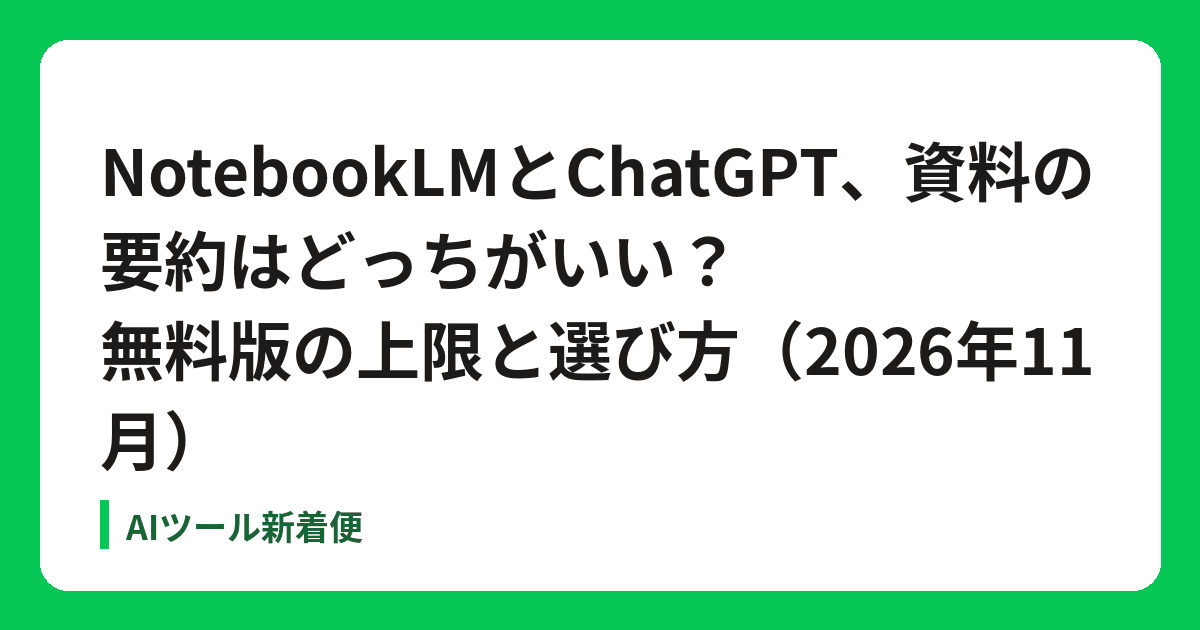
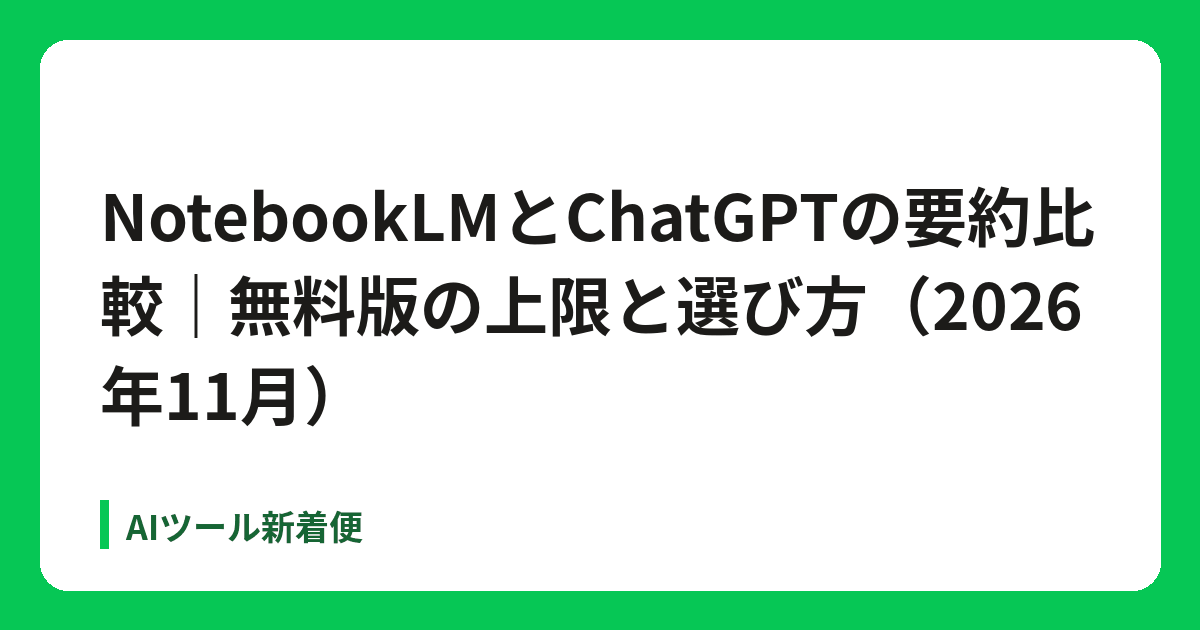
新記事: ClaudeとChatGPTの違い（無料版・有料プラン）／動画生成AI比較・AIホームページ比較を公式で再確認(2026-11-03)

Changed region(s): [[0.0617, 0.2111, 0.925, 0.754]]

diff --git a/data/articles.js b/data/articles.js
@@ -1,4 +1,5 @@
 module.exports = [
+{"slug":"claude-chatgpt-muryou-chigai","date":"2026-11-03","tools":["chatgpt"],"title":"ClaudeとChatGPTの違い｜無料版でできることと有料プラン","desc":"ClaudeとChatGPTどっちがいい？と迷う人向けに、無料版の上限の考え方、使えるモデルや機能、有料プランの違い、向いていない人と代わりの選択肢を公式料金ページの情報だけで比較しました。","body":"<h1>ClaudeとChatGPT、どっちがいい？無料版の違いと有料プラン</h1><p class=\"muted\">2026年11月3日にAnthropicとOpenAIの公式料金ページで確認した内容です。プランの中身や料金は変わることがあるため、申し込み前に最新の料金は公式ページでご確認ください。筆者の使用感ではなく、公式ページに書かれている内容だけをもとにしています。</p>\n<p>Q&amp;Aサイトでは「ClaudeとChatGPTはどっちを使えばいい？」「無料版だとどこまでできる？」「有料にするならどれ？」といった相談がよく見られます。この記事では、2つのAIチャットの<b>無料版でできること・上限の考え方・有料プランの違い</b>を、公式の料金ページの比較表をもとに整理します。</p>\n<h2>先に結論：選び方の目安</h2><ul><li><b>無料でたくさん文章のやりとりをしたい、画像も作りたい</b>なら、無料版でもテキストチャットが「無制限（乱用防止の制限あり）」で画像生成もできるChatGPTが候補です。</li><li><b>長い文章や資料を読ませたい、Artifacts（その場で作る小さなアプリや文書）やスライド・文書作成を使いたい</b>なら、無料版でもコンテキスト（一度に扱える量）がモデルにより最大100万トークンと書かれているClaudeが候補です。</li><li><b>プログラミングを任せたい</b>なら、Claude Codeは無料版では使えずProから（ChatGPTのCodexは無料版でも制限つきで使えます）。</li><li>どちらも無料で始められるので、同じ質問を両方に投げて比べるのが確実です。</li></ul>\n<h2>無料版の比較表（2026年11月3日 公式料金ページで確認）</h2><table><thead><tr><th>項目</th><th>Claude（Free）</th><th>ChatGPT（Free）</th></tr></thead><tbody>\n<tr><td>料金</td><td>$0</td><td>無料</td></tr>\n<tr><td>使える量</td><td>制限あり（5時間ごと・毎週の上限）。決まったメッセージ数はなく、モデル・会話の長さ・ファイルの大きさで変わる</td><td>GPT-6でのテキストチャットは無制限（乱用防止の制限あり）。アップロードを含むメッセージは制限あり</td></tr>\n<tr><td>一度に扱える量</td><td>コンテキストは最大100万トークン（モデルにより異なる）</td><td>GPT Instantはコンテキスト27K、入力は約12ページ分まで</td></tr>\n<tr><td>使えるモデル</td><td>Sonnet・Haiku（Opusは有料プランから）</td><td>GPT-6 Luna、GPT-5 Thinking Mini など（上位モデルはPlus以上）</td></tr>\n<tr><td>Web検索</td><td>あり</td><td>あり</td></tr>\n<tr><td>画像生成</td><td>料金ページの比較表に項目なし</td><td>制限あり</td></tr>\n<tr><td>音声での会話</td><td>あり（Voice mode）</td><td>制限あり</td></tr>\n<tr><td>ファイル作成・コード実行</td><td>あり</td><td>データ分析は制限あり</td></tr>\n<tr><td>プロジェクト</td><td>5件まで</td><td>あり</td></tr>\n<tr><td>リサーチ（調べもの機能）</td><td>なし（Proから）</td><td>ディープリサーチは制限あり</td></tr>\n<tr><td>プログラミング支援</td><td>Claude Codeはなし（Proから）</td><td>Codexは制限あり</td></tr>\n<tr><td>メモリ</td><td>あり（会話をまたいだメモリ）</td><td>制限あり</td></tr>\n<tr><td>予約タスク</td><td>なし（タスクの委託とスケジュール設定はProから）</td><td>なし（Plusから）</td></tr>\n<tr><td>学習への利用</td><td>オプトアウト（設定で外せる）</td><td>オプトアウトできる</td></tr>\n</tbody></table>\n<p class=\"muted\">表の「制限あり」は、公式ページに「Limited」とだけ書かれ、具体的な回数が示されていないものです。</p>\n<h2>Claudeの無料版でできること</h2><p>Anthropicの料金ページ（日本語版あり）では、Freeプランは「すべてのカスタマーに無料で提供」とされ、次の機能が並んでいます。</p><ul><li>Web・デスクトップ・モバイルでチャット</li><li>Web検索、ファイル作成、コード実行</li><li>会話をまたいだメモリ</li><li>アプリやツールとの連携（コネクタ）</li><li>Artifactsの作成</li><li>Claude Design、Slides、Docs</li></ul><p>上限は「5時間ごと・毎週」で決まります。公式FAQでは、多くのアカウントで上限は5時間ごとの枠でリセットされ、使える量は会話の長さや複雑さ、選んだモデル、使う機能によって変わるため<b>決まったメッセージ数はない</b>と説明されています。上限に達したら、リセットを待つか上位プランに変えます。</p>\n<h2>ChatGPTの無料版でできること</h2><p>OpenAIの料金ページでは、無料版（Free）は「ChatGPTを試すのに最適」とされ、次の内容が書かれています。</p><ul><li>GPT-6でのテキストチャットが無制限（乱用防止の制限あり）</li><li>アップロードを含むメッセージ、画像生成、音声での会話、ディープリサーチ、メモリ・コンテキストは制限あり</li><li>Codex、デスクトップアプリのChatGPT Workは制限つきで利用可</li><li>検索、プロジェクト、学習モード（Study mode）は利用可</li></ul><p>ChatGPTの無料版の詳しい中身は<a href=\"https://ai-shinchaku.com/articles/chatgpt-muryou-dekirukoto/\">ChatGPT無料版でできることと上限</a>にもまとめています。</p>\n<h2>有料プランの違い</h2><table><thead><tr><th>プラン</th><th>料金（公式ページの表記）</th><th>主な違い</th></tr></thead><tbody>\n<tr><td>Claude Pro</td><td>月払い$20、年払いなら月$17（$200を一括請求）・税別</td><td>Freeより多い使用量（公式FAQでは5時間あたりFreeの5倍以上）。Claude Code、リサーチ、Opusなどのモデル、ChromeやMicrosoft 365でのClaude、タスクの委託とスケジュール設定</td></tr>\n<tr><td>Claude Max</td><td>月$100・税別</td><td>Proの5倍の使用量（5時間ごと・毎週）。高トラフィック時の優先アクセス、月$100分のAPIクレジット</td></tr>\n<tr><td>Claude Ultra</td><td>月$200・税別</td><td>Proの10倍の使用量（毎週）。認証済みアカウントは5時間制限なし。月$200分のAPIクレジット</td></tr>\n<tr><td>ChatGPT Go</td><td>最新の料金は公式ページでご確認ください</td><td>ツールを使うメッセージ・アップロード・画像生成・音声が増え、メモリが長くなる。広告が表示される場合あり</td></tr>\n<tr><td>ChatGPT Plus</td><td>最新の料金は公式ページでご確認ください</td><td>GPT-6の高度な推論モデル、メッセージ・アップロード・ディープリサーチの拡大、プロジェクト・予約タスク・カスタムGPT</td></tr>\n<tr><td>ChatGPT Pro</td><td>最新の料金は公式ページでご確認ください</td><td>3つの利用段階から選べる。GPT-6 AstraによるPro推論、画像生成は無制限（乱用防止の制限あり）、ディープリサーチ最大</td></tr>\n</tbody></table>\n<p class=\"muted\">ChatGPTの料金ページは、確認時に金額の部分を読み取れなかったため、金額は載せていません。ドル表記の料金は、為替や税によって日本円の支払額が変わります。</p>\n<h2>こんな人はClaude、こんな人はChatGPT</h2><ul><li><b>Claudeが向いている人</b>：長い文章や資料をまとめて読ませたい人、Artifactsでその場で文書や小さなツールを作りたい人、有料にしてClaude Codeでプログラミングを任せたい人。</li><li><b>ChatGPTが向いている人</b>：無料版で回数を気にせず文章のやりとりをしたい人、画像生成や音声での会話も1つのアプリで使いたい人、無料のうちからディープリサーチやCodexを少し試したい人。</li></ul>\n<h2>向いていない人と代わりの選択肢</h2><ul><li><b>Claudeの無料版が向いていない人</b>：1日に何十回も長いやりとりをしたい人は、5時間ごとの上限に届きやすくなります。無料で使えるAIチャットを増やしたいなら<a href=\"https://ai-shinchaku.com/articles/gemini-muryou-dekirukoto/\">Gemini無料版</a>も候補です。</li><li><b>ChatGPTの無料版が向いていない人</b>：長いPDFをそのまま読ませたい人は、無料版の入力上限（約12ページ分）に注意が必要です。手元の資料の中身だけをもとに要約・質問したいなら<a href=\"https://ai-shinchaku.com/articles/notebooklm-chatgpt-youyaku-hikaku/\">NotebookLMとChatGPTの要約比較</a>を参考にしてください。</li><li><b>どちらも合わない人</b>：Googleのサービスと一緒に使いたい、Officeと一緒に使いたいなど目的がはっきりしている場合は、<a href=\"https://ai-shinchaku.com/articles/chatgpt-igai-ai-hikaku/\">ChatGPT以外のAIチャット比較</a>で他の選択肢を見られます。</li></ul>\n<h2>無料版を使うときの注意点</h2><ul><li>どちらも、入力した内容をモデルの学習に使うかどうかを設定で外せます（公式の比較表ではClaudeは「オプトアウト」、ChatGPTは「オプトアウトできる」）。仕事の資料を入れる前に設定を確認しましょう。</li><li>AIの答えには誤りが含まれることがあります。数字・固有名詞・日付は元の資料や公式情報で確かめてから使いましょう。</li><li>無料版の上限や使えるモデルは、予告なく変わることがあります。</li></ul>\n<h2>関連記事</h2><p><a href=\"https://ai-shinchaku.com/articles/chatgpt-muryou-dekirukoto/\">ChatGPT無料版でできることと上限</a>／<a href=\"https://ai-shinchaku.com/articles/claude-haiku-5-5/\">Claude Haiku 5.5とは？</a>／<a href=\"https://ai-shinchaku.com/articles/claude-code-mcp-tasks/\">Claude Code MCP Tasksの使い方</a>／<a href=\"https://ai-shinchaku.com/articles/chatgpt-igai-ai-hikaku/\">ChatGPT以外のAIチャット比較</a>／<a href=\"https://ai-shinchaku.com/tools/chatgpt/\">ChatGPTのツールページ</a></p>\n<h2>出典（公式・2026年11月3日確認）</h2><pre><code>https://claude.com/ja/pricing\nhttps://claude.com/pricing\nhttps://chatgpt.com/pricing/</code></pre>"},
 {"slug":"notebooklm-chatgpt-youyaku-hikaku","date":"2026-11-03","tools":["notebooklm","chatgpt"],"title":"NotebookLMとChatGPTの要約比較｜無料版の上限と選び方（2026年11月）","desc":"PDFや資料の要約にNotebookLMとChatGPTのどちらを使うか迷う人向けに、無料版の資料の上限、得意な使い方、向いていない人を公式ページの情報だけで比較しました。","body":"<h1>NotebookLMとChatGPT、資料の要約はどっちがいい？</h1><p class=\"muted\">2026年11月3日にGoogleとOpenAIの公式ページで確認した内容です。プランの中身は変わることがあるため、最新の料金は公式ページでご確認ください。</p>\n<p>Yahoo!知恵袋などのQ&amp;Aサイトでは、「PDFや資料をAIに要約させたいが、NotebookLMとChatGPTのどちらを使えばいいかわからない」「無料版でどこまでできるのか」「要約に間違いがないか心配」といった相談がよく見られます。この記事では、そうした悩みに向けて、2つのツールの違いを公式の情報だけで整理します。筆者の使用感ではなく、公式ページに書かれている内容をもとにしています。</p>\n<h2>先に結論：選び方の目安</h2><ul><li><b>手元の資料（PDF・ドキュメントなど）の中身だけをもとに要約・質問したい</b>なら、資料を「ソース」として登録して使うNotebookLMが向いています。</li><li><b>要約のあとに文章作成・画像・音声など幅広い作業も続けたい</b>なら、汎用のAIチャットであるChatGPTが向いています。</li><li>どちらも無料で始められるので、同じ資料で両方を試して比べるのが確実です。</li></ul>\n<h2>NotebookLM（Gemini Notebook）の特徴</h2><p>Googleの公式ヘルプでは、NotebookLMは「Gemini Notebook」という名前で案内されています。資料をノートブックに「ソース」として追加し、その内容をもとにチャットや分析ができます。</p><ul><li>無料（Gmailアカウントで登録）のStandardでは、ノートブックは1ユーザー100件、ソースは1ノートブック50件までと公式ヘルプに書かれています（上限は変更される場合があります）。</li><li>Google AI Plusでは200件・100件、Proでは500件・300件と上限が増えます。</li><li>ソースを初めて追加したとき、レポート、フラッシュカード、インフォグラフィック、スライド資料、音声解説、動画解説が自動で作られる場合があります。</li><li>データは、フィードバックを送らない限りトレーニングに使われないと書かれています。</li></ul>\n<h2>ChatGPTの特徴</h2><p>ChatGPTは、OpenAIの汎用AIチャットです。公式の料金ページでは、無料版・Go・Plus・Proなどのプランが案内されています。</p><ul><li>無料版でもテキストチャットは無制限（不正利用防止の安全対策あり）ですが、<b>アップロードを含むメッセージ数には上限がある</b>と書かれています。資料を何度も読み込ませる使い方では、この上限に注意が必要です。</li><li>Goでは「より多くのアップロード」、Plusでは「メッセージ送信とアップロードの上限拡大」が案内されています。</li><li>Deep Research、画像作成、音声チャットなど、要約以外の機能もあります（無料版は上限あり）。</li></ul>\n<h2>比較表</h2><table><tr><th>項目</th><th>NotebookLM</th><th>ChatGPT</th></tr><tr><td>得意な使い方</td><td>登録した資料をもとにした要約・質問</td><td>要約を含む幅広い作業</td></tr><tr><td>無料版の資料の上限</td><td>ノートブック100件・1ノートブックあたりソース50件</td><td>アップロードを含むメッセージ数に上限あり（具体的な数は公式ページに記載なし）</td></tr><tr><td>有料プラン</td><td>Google AI Plus／Pro／Ultraなど</td><td>Go／Plus／Proなど</td></tr><tr><td>料金</td><td colspan=\"2\">最新の料金は公式ページでご確認ください</td></tr></table>\n<h2>向いていない人と代わりの選択肢</h2><ul><li><b>NotebookLMが向いていない人</b>：資料を用意せずに、自由に質問や文章作成をしたい人。この場合はChatGPTやGeminiなどの汎用AIチャットが合います。</li><li><b>ChatGPTが向いていない人</b>：無料版で大量の資料を何度もアップロードしたい人。アップロードに上限があるため、資料をまとめて登録できるNotebookLMを検討しましょう。</li></ul>\n<h2>要約を使うときの注意点</h2><ul><li>どちらのツールでも、AIの要約には間違いや抜けが入ることがあります。数字や固有名詞は元の資料で確かめましょう。</li><li>社外秘の資料を入れる前に、各サービスのデータの取り扱いと、勤務先のルールを確認しましょう。</li></ul>\n<h2>関連</h2><p><a href=\"../../tools/notebooklm/\">NotebookLMのツールページ</a>／<a href=\"../../tools/chatgpt/\">ChatGPTのツールページ</a>／<a href=\"../notebooklm-muryou-jougen/\">NotebookLM無料版の上限</a>／<a href=\"../chatgpt-muryou-dekirukoto/\">ChatGPT無料版でできること</a>／<a href=\"../chatgpt-igai-ai-hikaku/\">ChatGPT以外のAIチャット比較</a></p>\n<h2>出典（公式）</h2><pre><code>https://support.google.com/notebooklm/answer/16213268?hl=ja\nhttps://chatgpt.com/pricing/</code></pre>"},
 {"slug":"rakuyoko-rakuten-ichiba-shoukai","noindex":true,"date":"2026-10-29","tools":["chatgpt","gemini"],"title":"楽天ラクヨコの売れ筋をAIで探して、楽天市場で紹介する手順（2026年10月の確認情報）","desc":"楽天ラクヨコは楽天アフィリエイトの対象外。ラクヨコで見つけた商品のヒントをAIで広げ、楽天市場で紹介するまでの手順と、料率・上限・24時間/89日・Xのルールを楽天公式ページで確認してまとめました。","body":"<h1>楽天ラクヨコの売れ筋をAIで探して、楽天市場で紹介する手順</h1><p class=\"muted\">2026年10月29日に楽天市場・楽天アフィリエイトの公式ページで確認した内容です。条件は変わることがあるため、紹介する前に必ず公式ページをご確認ください。</p>\n<p>この記事は、楽天ラクヨコで見つけた商品のヒントをもとに、<b>楽天市場</b>で同じジャンルの商品を探して紹介するまでの流れをまとめたものです。収益をお約束するものではありません。</p>\n<h2>ラクヨコとは</h2><p>楽天ラクヨコは、楽天グループが運営するオンラインストアです（公式サイト：https://rakuyoko.rakuten.co.jp/ ）。楽天市場とは別のサイトで、利用規約やヘルプもラクヨコ専用のものが用意されています。注文の条件や送料などは、最新の条件を公式ページでご確認ください。</p>\n<h2>アフィリエイト対象外であること</h2><p>楽天アフィリエイトの公式ヘルプ「楽天アフィリエイトで成果報酬の対象となるサービスは何ですか？」（2026年10月現在の一覧）には、<b>「楽天チケットや楽天ラクヨコなど、上記にないサービスはアフィリエイト対象外です」</b>と書かれています。</p><ul><li>ラクヨコの商品ページへのリンクは、成果報酬の対象になりません。</li><li>リンクを作れることと、成果の対象になることは別です。</li><li>紹介に使うのは、一覧に載っている楽天市場などの対象サービスのリンクにしましょう。</li></ul>\n<h2>楽天市場の料率と条件</h2><p>楽天市場の出店者向け公式ページ「サービス利用料の詳細」の商品ジャンル別料率テーブルでは、料率は次のように分かれています（一部を抜粋）。</p>\n<table><tr><th>料率</th><td>主な商品ジャンル</td></tr>\n<tr><th>4%</th><td>レディース・メンズファッション、靴、バッグ・小物・ブランド雑貨、ジュエリー・アクセサリー、美容・コスメ・香水、食品、スイーツ・お菓子、ペット・ペットグッズ、キッズ・ベビー・マタニティ、ダイエット・健康、スポーツ・アウトドア、花・ガーデン・DIY など</td></tr>\n<tr><th>3%</th><td>キッチン用品・食器・調理器具、日用品雑貨・文房具・手芸、インテリア・寝具・収納、本・雑貨・コミック、おもちゃ、ホビー など</td></tr>\n<tr><th>2%</th><td>家電、パソコン・周辺機器、スマートフォン・タブレット、テレビゲーム、TV・オーディオ・カメラ、腕時計、上記以外 など</td></tr></table>\n<p>このほかの公式の条件です。</p><ul><li><b>上限（1商品）</b>：報酬は1注文1つの商品につき1,000円が上限です。ただし、店舗が任意で料率アップをした場合はこの限りではありません（楽天市場「サービス利用料の詳細」）。</li><li><b>上限（同じ購入者）</b>：同一のユーザーからの購入にもとづく成果報酬は、1ユーザーあたり月3,000円が上限です（楽天市場のみ対象。楽天アフィリエイト公式ヘルプ）。</li><li><b>成果の期間</b>：リンクをクリックしてから24時間以内に商品を「買い物かご」に入れ、クリック後89日以内に購入・予約・申込まで完了した場合が対象です。クリック前から買い物かごに入っていた商品は対象外で、初回の購入が対象です（公式ヘルプ）。</li><li>販売金額が100円未満の商品や、課金の発生しない注文は成果報酬が発生しません。</li><li>自分で置いたリンクから自分で買った場合などは成果対象外です。</li></ul>\n<p>楽天市場では商品ジャンルIDの変更や追加が行われることがあり、料率が変わる場合があります。最新の条件は公式ページでご確認ください。</p>\n<h2>AIで売れ筋を探す手順</h2><ol><li><b>ラクヨコで気になる商品を見る</b>：ラクヨコのカテゴリやランキング表示を見て、話題になっている商品のジャンルや特徴をメモします（リンクは貼りません）。</li><li><b>AIでキーワードを広げる</b>：ChatGPTやGeminiに「この商品の特徴から、楽天市場で探すときの検索キーワードを10個出して」と頼みます。</li><li><b>楽天市場で同じジャンルの商品を探す</b>：出てきたキーワードで楽天市場を検索し、商品ページの内容（価格・送料・レビュー）を自分の目で確かめます。</li><li><b>料率を確認する</b>：商品のジャンルが上の表のどこに当たるかを確認します。リンク作成画面に表示される料率も見ておきましょう。</li><li><b>楽天アフィリエイトでリンクを作る</b>：楽天市場の商品ページからリンクを作成します。紹介文は自分で確かめた事実だけを書きます。</li></ol>\n<p>AIの答えには間違いが入ることがあります。価格や仕様は必ず商品ページで確認してください。AIの使い方は<a href=\"https://ai-shinchaku.com/articles/chatgpt-muryou-dekirukoto/\">ChatGPT無料版でできることと上限</a>や<a href=\"https://ai-shinchaku.com/articles/gemini-muryou-dekirukoto/\">Geminiを無料でできること</a>も参考にしてください。</p>\n<h2>Xのルール</h2><ul><li>楽天アフィリエイトの公式ヘルプでは、X（旧Twitter）で使う方法として「短縮URL」の利用が案内されています。トラッキングの有効期間はほかのリンクと同じ24時間です。</li><li>リンク作成画面からXに投稿した場合、編集できるのは<b>コメント編集スペース（40文字）だけ</b>です。商品名やURLを変えることは禁止されています（商品名の前後のキャッチコピーを省く変更は例外として認められています）。</li><li>楽天アフィリエイト事務局は、他人の投稿への返信（リプライ）やコメント欄にリンクを載せることを禁止しています。</li><li><b>PR表記</b>：楽天アフィリエイトの「ステルスマーケティング規制の対応について」では、商品提供やイベント参加、お試しクーポンなど、成果報酬以外のやり取りがある投稿は「広告」「PR」の表記が<b>必須</b>です。基本機能だけを使う場合は<b>任意</b>とされています。迷うときは、広告であることがわかるように表記しておくと安心です。</li></ul>\n<h2>紹介例</h2><p><span class=\"pr\">PR</span> このリンクはアフィリエイト（広告）です。楽天市場の商品ページにつながります。価格や在庫は変わることがあるため、商品ページでご確認ください。</p><ul><li><a href=\"https://a.r10.to/hP3pCz\" rel=\"sponsored nofollow\" target=\"_blank\">イージーワイドパンツ（Dark Angel）</a><span class=\"pr\">PR</span> 丈を選べるワイドパンツです。</li><li><a href=\"https://a.r10.to/hPYLQN\" rel=\"sponsored nofollow\" target=\"_blank\">さらてろリブ ルームウェア上下セット（Dark Angel）</a><span class=\"pr\">PR</span> 上下セットのルームウェアです。</li><li><a href=\"https://a.r10.to/h5gOl4\" rel=\"sponsored nofollow\" target=\"_blank\">ワンタッチ日傘（CICI BELLA）</a><span class=\"pr\">PR</span> 自動開閉・晴雨兼用の折りたたみ傘です。</li><li><a href=\"https://a.r10.to/hgEiEd\" rel=\"sponsored nofollow\" target=\"_blank\">ふわとろ毛布（NERUS）</a><span class=\"pr\">PR</span></li><li><a href=\"https://a.r10.to/h5MWMQ\" rel=\"sponsored nofollow\" target=\"_blank\">電動の真空保存容器（VAKUEN）</a><span class=\"pr\">PR</span> ポンプが別売の場合があります。商品ページでご確認ください。</li></ul>\n<h2>FAQ</h2><h3>ラクヨコの商品リンクで報酬は出ますか？</h3><p>出ません。楽天アフィリエイトの公式ヘルプで、楽天ラクヨコはアフィリエイト対象外と書かれています。</p>\n<h3>楽天市場の報酬に上限はありますか？</h3><p>あります。1注文1つの商品につき1,000円（店舗の料率アップ商品は除く）、同じ購入者からは月3,000円が上限です。</p>\n<h3>クリックした日に買われなくても対象になりますか？</h3><p>クリックから24時間以内に買い物かごに入れ、89日以内に購入が完了すれば対象です。</p>\n<h3>Xの投稿にPRは必要ですか？</h3><p>楽天アフィリエイトの基準では、商品提供などのやり取りがある場合は必須、基本機能だけなら任意です。くわしくは公式ページをご確認ください。</p>\n<h2>出典</h2><pre><code>https://www.rakuten.co.jp/ec/plan/cost_detail/\nhttps://affiliate.faq.rakuten.net/detail/000001126\nhttps://affiliate.faq.rakuten.net/detail/000009818\nhttps://affiliate.faq.rakuten.net/detail/000009957\nhttps://affiliate.faq.rakuten.net/detail/000009961\nhttps://plaza.rakuten.co.jp/affiliatestaff/diary/202001100000/\nhttps://affiliate.rakuten.co.jp/guideline/stealth_marketing_regulation/\nhttps://rakuyoko.rakuten.co.jp/</code></pre>"},
 {"slug": "cursor-muryou-dokomade", "date": "2026-10-29", "tools": ["cursor", "v0"], "title": "Cursorは無料でどこまで使える？Freeプランの制限と有料プランの違い", "desc": "AIコーディングツールCursorを無料でどこまで使えるかを、公式の料金ページとドキュメントだけで確認。Freeプランでできること、サードパーティモデルの扱い、Plus・Premium・Super・Ultraの料金と違い、枠を使い切ったときの選択肢をまとめました。", "body": "<h1>Cursorは無料でどこまで使える？</h1><p>この記事を読むと、Cursorの$0のFreeプランで<b>コードの修正や質問をAIに任せて手間を省ける範囲</b>と、有料プランが必要になる場面（サードパーティモデルやクラウドエージェントを使いたいときなど）がわかり、必要のないプランにお金を払わずに済みます。</p><p class=\"muted\">2026年10月29日にCursor公式の料金ページ（日本語版・英語版）と公式ドキュメント「Models &amp; Pricing」で確認した内容です。料金や機能は変わることがあるため、申し込む前に必ず公式サイトをご確認ください。</p>\n<h2>結論</h2><p>Cursorには<b>$0のFreeプラン</b>があり、エージェント（AIにコードを書かせる機能）とチャットを使えます。ただし料金ページでは、どちらも<b>「リクエスト数に制限あり」</b>とだけ書かれていて、具体的な回数は書かれていません。また、公式ドキュメントでは<b>FreeとPlusではClaude・GPT・Geminiなどのサードパーティモデルは使えない</b>とされています。まず無料で触ってみれば、自分の作業にAIで時間が浮くかを費用ゼロで確かめられ、足りないとわかったときだけ有料プランを選べば済みます。</p>\n<h2>いまのCursorの料金のしくみ</h2><p>公式ドキュメントによると、Cursorは現在<b>「The X Subscription」の一部として販売</b>されていて、1つのサブスクリプションでGrok・Cursor・Xを使える形です。有料プランには、CursorとGrokで共有する<b>週単位の使用量の枠</b>が付きます。枠は毎週リセットされ、残りの枠は設定画面で確認できると書かれています。</p>\n<h2>無料と有料の違い（公式ページより）</h2><table><tr><th>プラン</th><td><b>月額（税別）</b>／<b>使用量</b>／<b>おもな内容</b></td></tr>\n<tr><th>Free</th><td>$0／制限あり／エージェントとチャット（リクエスト数に制限あり）。サードパーティモデルは使えない</td></tr>\n<tr><th>Plus</th><td>$8（年払い $80/年）／基本の枠／Cursor独自のモデル（Grok 4.7・Grok 4.6・Grok 4.5・Composer 2.5）でエージェントを使える。設定は固定（Fastオフ、effortは中）。Auto、クラウドエージェント、自動化、Bugbot、サードパーティモデル、自分のAPIキーは使えない</td></tr>\n<tr><th>Premium</th><td>$30（年払い $300/年）／Plusの4倍／クラウドエージェントと自動化、Originでのコードホスティング、BugbotによるAIコードレビュー、サードパーティモデル（APIの定価で、前払いクレジットから支払い）</td></tr>\n<tr><th>Super</th><td>$100（年払い $1,000/年）／Plusの15倍／Premiumの内容に加えて、混雑時もモデルに優先アクセス</td></tr>\n<tr><th>Ultra</th><td>$200（年払い $2,000/年）／Plusの50倍／Superの内容に加えて、新しい製品・モデルへの最優先アクセス</td></tr>\n<tr><th>Teams</th><td>1席 $30・$100・$200／席の種類と同じ／一元管理、使用状況の分析、チーム全体のプライバシー設定、SAML/OIDC SSOなど</td></tr></table>\n<p class=\"muted\">料金ページには「表示価格に税金は含まれない」「価格は変更される場合がある」と書かれています。最新の料金は公式ページでご確認ください。</p>\n<h2>Freeプランで知っておきたいこと</h2><ul><li>エージェントとチャットは使えますが、回数の上限は公式ページに数字の記載がありません。</li><li>Claude・GPT・Geminiなどのサードパーティモデルは、FreeとPlusでは使えません（Premium以上で、APIの定価で利用）。</li><li>クラウドエージェント、自動化、Bugbot（AIコードレビュー）はPremium以上の機能です。</li><li>Freeでは、Grokのチャット・画像生成（Imagine）・Grok Buildも「制限あり」で使えると料金ページの比較表に書かれています。</li></ul>\n<h2>枠を使い切ったらどうなる？</h2><p>公式ドキュメントでは、有料プランで週の枠を使い切ったときの選び方として、<b>リセットを待つ</b>、<b>前払いクレジット（トップアップ）で続ける</b>、<b>上のプランに変える</b>の3つが案内されています。月ごとの追加利用の上限を設定でき、使いすぎを防げるとも書かれています。リクエストの品質や速度が下がることはないとされています。</p>\n<h2>支払い・解約・データの扱い</h2><ul><li>支払いは主要なクレジットカード・デビットカード（料金ページのFAQ）。請求書払いは企業プランで相談。</li><li>いつでも解約できますが、追加の請求を避けるには<b>更新の24時間前まで</b>に解約するよう料金ページに書かれています。</li><li>プライバシーモードを有効にすると、コードのデータが学習に使われないことを保証するとFAQに書かれています。</li><li>購入は公式サイトからだけで、販売代理店やサードパーティ経由の販売は認めていないとFAQに書かれています。</li><li>以前からのPro・Pro+などの旧プランは、既存の利用者向けにそのまま続くと公式ドキュメントに書かれています。</li></ul>\n<h2>無料で足りる人・有料を考えたい人</h2><p><b>無料で足りる人</b>：Cursorがどんなものか試したい人。ときどき小さな修正や質問をAIに頼む程度の人。</p><p><b>有料を考えたい人</b>：毎日エージェントに作業を任せたい人、ClaudeやGPTなどほかの会社のモデルを使いたい人、クラウドエージェントや自動化、AIコードレビューを使いたい人。</p><p>自分がどちらに当てはまるかを先に決めておけば、使わない機能にお金を払わずに済みます。</p>\n<h2>関連</h2><p><a href=\"https://ai-shinchaku.com/tools/cursor/\">Cursorのツールページ</a>／<a href=\"https://ai-shinchaku.com/articles/claude-code-mcp-tasks/\">Claude Code MCP Tasksの使い方</a>／<a href=\"https://ai-shinchaku.com/articles/ai-homepage-sakusei-hikaku/\">AIホームページ作成ツール比較</a>／<a href=\"https://ai-shinchaku.com/articles/muryou-ai-tool-ichiran/\">無料で使えるAIツール一覧</a></p>\n<h2>出典（公式）</h2><pre><code>https://cursor.com/ja/pricing\nhttps://cursor.com/pricing\nhttps://cursor.com/docs/models-and-pricing</code></pre>"},
@@ -256,6 +257,7 @@ module.exports = [
   {
     "slug": "ai-homepage-sakusei-hikaku",
     "date": "2026-10-20",
+    "updated": "2026-11-03",
     "tools": [
       "lolipop-ai-homepage",
       "v0",
@@ -263,7 +265,7 @@ module.exports = [
     ],
     "title": "AIホームページ作成ツール比較｜ロリポップ・ジンドゥー・v0の料金",
     "desc": "AIでホームページを作れるサービスを、公式サイトで確認した料金・無料期間・日本語対応で比較。お店や個人事業向けのロリポップ！AIホームページとジンドゥーAIビルダー、開発者向けのv0の違いと選び方をまとめました。",
-    "body": "<h1>AIでホームページ作成：3つのサービスの比較</h1><p class=\"muted\">2026年10月20日に各公式サイトで確認した内容です。料金は変わることがあるため、申し込み前に必ず公式サイトをご確認ください。「未確認」は公式サイトで確認できなかった項目です。</p><p class=\"muted\">PR：この記事にはアフィリエイトリンク（広告）が含まれます。リンク先で申し込みがあると、運営者が紹介報酬を受け取ることがあります。掲載内容や順番は報酬で変えていません。</p>\n<h2>比較表</h2><table><tr><th>サービス</th><td><b>料金</b>／<b>無料で試す</b>／<b>日本語</b>／<b>向いている人</b></td></tr>\n<tr><th><a href=\"../../tools/lolipop-ai-homepage/\">ロリポップ！AIホームページ</a></th><td>1,540円（1ヵ月契約）〜660円（36ヵ月契約）／月（税込・1サイト）／10日間無料（クレジットカード不要）／日本語サービス／お店・個人事業のホームページをすぐ公開したい人</td></tr>\n<tr><th>ジンドゥー AI ビルダー</th><td>有料プランの金額は未確認（料金ページの金額表示を取得できず）／無料プランあり（公式FAQ）／日本語サービス（KDDIグループ）／質問に答えて土台を作り、無料から始めたい人</td></tr>\n<tr><th><a href=\"../../tools/v0/\">v0 by Vercel</a></th><td>Free $0（1日7メッセージまで）／Plus $30〜／Business $100（1人あたり月額）／無料プランあり／日本語対応は未確認／Webアプリや画面を試作したい開発者</td></tr></table>\n<h2>ロリポップ！AIホームページ</h2><p>AIとの会話やデザインテンプレートからホームページを作って公開できるサービスです。公式では「最短10分で公開」と案内されています。公開後もAIで修正できます。12ヵ月以上の契約では独自ドメインが初年度無料です（公式サイトより）。</p>\n<p><a class=\"cta\" href=\"https://px.a8.net/svt/ejp?a8mat=4BEL1J+H9NMY+348+4SNX5E\" rel=\"sponsored nofollow noopener\" target=\"_blank\">ロリポップ！AIホームページを10日間無料で試す</a><span class=\"pr\">PR</span></p>\n<h2>ジンドゥー AI ビルダー</h2><p>公式サイトでは「ナビに従うだけでAIがホームページを作ってくれる」と説明されています。質問に答えると数分でホームページの土台ができ、あとは画像・タイトル・文章を変えて仕上げます。スマホやタブレットでも作成・編集できます。有料プランの契約期間は1ヶ月・1年・2年から選べ、申し込みから14日以内ならキャンセルできます（公式FAQ）。</p>\n<h2>v0 by Vercel</h2><p>AIと一緒にWebアプリを設計・作成できるサービスです。LPや画面の試作に使えますが、コードや公開の仕組みを扱う開発者向けです。ドメインやサーバーの準備が不要な「すぐ公開できる店舗サイト」が目的なら、上の2つの方が手順は少なくなります。</p>\n<h2>選び方</h2><ul><li><b>まず無料で試したい</b>：ロリポップ！AIホームページ（10日間無料）か、ジンドゥーの無料プラン。</li><li><b>独自ドメインで長く使う</b>：<a href=\"../lolipop-ai-homepage-ryoukin/\">ロリポップ！AIホームページ</a>の12ヵ月以上契約は独自ドメインが初年度無料。</li><li><b>デザインを自分のコードで作り込みたい</b>：v0。</li></ul>\n<h2>サイトに使う画像もAIで作るなら</h2><p>トップ画像やバナーを自分で作りたい場合は、ブラウザでStable Diffusionを使える<a href=\"../../tools/conoha-ai-canvas/\">ConoHa AI Canvas</a>もあります。料金は<a href=\"../conoha-ai-canvas-tsukaikata-ryoukin/\">ConoHa AI Canvasの使い方・料金</a>にまとめています。無料の方法は<a href=\"../gazou-seisei-ai-muryou/\">無料で使える画像生成AI</a>をご覧ください。</p>\n<h2>注意点</h2><ul><li>AIが作った文章は、営業時間・住所・料金などの事実を必ず自分で確認してから公開しましょう。</li><li>画像を使う場合は、各サービスの商用利用の条件を確認してください。</li></ul>\n<h2>出典（公式）</h2><pre><code>https://lolipop.jp/ai/homepage/\nhttps://www.jimdo.com/jp/\nhttps://www.jimdo.com/jp/pricing/\nhttps://v0.app/pricing\nhttps://www.conoha.jp/ai/canvas/</code></pre>"
+    "body": "<h1>AIでホームページ作成：3つのサービスの比較</h1><p class=\"muted\">2026年10月20日に各公式サイトで確認し、2026年11月3日に料金ページで確認し直した内容です（変更なし）。料金は変わることがあるため、申し込み前に最新の料金は公式ページでご確認ください。</p><p class=\"muted\">PR：この記事にはアフィリエイトリンク（広告）が含まれます。リンク先で申し込みがあると、運営者が紹介報酬を受け取ることがあります。掲載内容や順番は報酬で変えていません。</p>\n<h2>比較表</h2><table><tr><th>サービス</th><td><b>料金</b>／<b>無料で試す</b>／<b>日本語</b>／<b>向いている人</b></td></tr>\n<tr><th><a href=\"../../tools/lolipop-ai-homepage/\">ロリポップ！AIホームページ</a></th><td>1,540円（1ヵ月契約）〜660円（36ヵ月契約）／月（税込・1サイト）／10日間無料（クレジットカード不要）／日本語サービス／お店・個人事業のホームページをすぐ公開したい人</td></tr>\n<tr><th>ジンドゥー AI ビルダー</th><td>有料プランの金額は最新の料金を公式ページでご確認ください／無料プランあり（公式FAQ）／日本語サービス（KDDIグループ）／質問に答えて土台を作り、無料から始めたい人</td></tr>\n<tr><th><a href=\"../../tools/v0/\">v0 by Vercel</a></th><td>Free $0（1日7メッセージまで）／Plus $30〜／Business $100（1人あたり月額）／無料プランあり／日本語対応は公式ページでご確認ください／Webアプリや画面を試作したい開発者</td></tr></table>\n<h2>ロリポップ！AIホームページ</h2><p>AIとの会話やデザインテンプレートからホームページを作って公開できるサービスです。公式では「最短10分で公開」と案内されています。公開後もAIで修正できます。12ヵ月以上の契約では独自ドメインが初年度無料です（公式サイトより）。</p>\n<p><a class=\"cta\" href=\"https://px.a8.net/svt/ejp?a8mat=4BEL1J+H9NMY+348+4SNX5E\" rel=\"sponsored nofollow noopener\" target=\"_blank\">ロリポップ！AIホームページを10日間無料で試す</a><span class=\"pr\">PR</span></p>\n<h2>ジンドゥー AI ビルダー</h2><p>公式サイトでは「ナビに従うだけでAIがホームページを作ってくれる」と説明されています。質問に答えると数分でホームページの土台ができ、あとは画像・タイトル・文章を変えて仕上げます。スマホやタブレットでも作成・編集できます。有料プランの契約期間は1ヶ月・1年・2年から選べ、申し込みから14日以内ならキャンセルできます（公式FAQ）。</p>\n<h2>v0 by Vercel</h2><p>AIと一緒にWebアプリを設計・作成できるサービスです。LPや画面の試作に使えますが、コードや公開の仕組みを扱う開発者向けです。ドメインやサーバーの準備が不要な「すぐ公開できる店舗サイト」が目的なら、上の2つの方が手順は少なくなります。</p>\n<h2>選び方</h2><ul><li><b>まず無料で試したい</b>：ロリポップ！AIホームページ（10日間無料）か、ジンドゥーの無料プラン。</li><li><b>独自ドメインで長く使う</b>：<a href=\"../lolipop-ai-homepage-ryoukin/\">ロリポップ！AIホームページ</a>の12ヵ月以上契約は独自ドメインが初年度無料。</li><li><b>デザインを自分のコードで作り込みたい</b>：v0。</li></ul>\n<h2>サイトに使う画像もAIで作るなら</h2><p>トップ画像やバナーを自分で作りたい場合は、ブラウザでStable Diffusionを使える<a href=\"../../tools/conoha-ai-canvas/\">ConoHa AI Canvas</a>もあります。料金は<a href=\"../conoha-ai-canvas-tsukaikata-ryoukin/\">ConoHa AI Canvasの使い方・料金</a>にまとめています。無料の方法は<a href=\"../gazou-seisei-ai-muryou/\">無料で使える画像生成AI</a>をご覧ください。</p>\n<h2>注意点</h2><ul><li>AIが作った文章は、営業時間・住所・料金などの事実を必ず自分で確認してから公開しましょう。</li><li>画像を使う場合は、各サービスの商用利用の条件を確認してください。</li></ul>\n<h2>出典（公式）</h2><pre><code>https://lolipop.jp/ai/homepage/\nhttps://www.jimdo.com/jp/\nhttps://www.jimdo.com/jp/pricing/\nhttps://v0.app/pricing\nhttps://www.conoha.jp/ai/canvas/</code></pre>"
   },
   {
     "slug": "notebooklm-muryou-jougen",
@@ -362,9 +364,9 @@ module.exports = [
     "slug": "douga-seisei-ai-hikaku",
     "date": "2026-10-20",
     "title": "動画生成AI比較｜Runway・Luma・HeyGenなど5つの料金と無料枠",
-    "updated": "2026-10-20",
+    "updated": "2026-11-03",
     "desc": "動画生成AI・AI動画編集ツール5つを、公式料金ページで確認した無料枠・有料プラン・日本語対応で比較。ショート動画、アバター解説、映像生成など用途別の選び方と注意点もまとめました。",
-    "body": "<h1>動画生成AI比較：Runway・Luma・HeyGen・CapCut・Descript</h1><p class=\"muted\">更新日：2026年10月20日。料金・機能は2026年10月16〜20日に各公式サイトで確認した内容です（当サイトの各ツールページの「情報確認日」も参照）。変更されることがあるため、申し込み前に必ず公式サイトをご確認ください。「未確認」は公式サイトで確認できなかった項目です。</p>\n<p>「動画生成AI」と一口に言っても、<b>文章や画像から映像を作るもの</b>（Runway・Luma）、<b>AIアバターが話す解説動画を作るもの</b>（HeyGen）、<b>撮った動画をAIで編集するもの</b>（CapCut・Descript）に分かれます。まず用途を決めてから選ぶのが近道です。</p>\n<h2>比較表</h2><table><tr><th>ツール</th><td><b>タイプ</b>／<b>無料枠</b>／<b>有料の例</b>／<b>日本語</b></td></tr>\n<tr><th><a href=\"../../tools/runway/\">Runway</a></th><td>映像生成・編集／Free（125クレジット・1回限り）／Standard $12・Pro $28・Max $76（年払い時の月額）／日本語の公式サイト・料金ページあり</td></tr>\n<tr><th><a href=\"../../tools/luma/\">Luma</a></th><td>映像・画像生成／無料枠は未確認／Plus $30・Pro $90・Ultra $300（月額）／未確認</td></tr>\n<tr><th><a href=\"../../tools/heygen/\">HeyGen</a></th><td>AIアバター動画／Free $0／Creator $29・Pro $49・Business $149（月額）／未確認</td></tr>\n<tr><th><a href=\"../../tools/capcut/\">CapCut</a></th><td>動画編集（自動字幕など）／無料で利用可／有料プランあり（AI動画生成は1秒あたり$0.12〜などの従量表示）／日本語の料金ページあり</td></tr>\n<tr><th><a href=\"../../tools/descript/\">Descript</a></th><td>文字起こしベースの動画・音声編集／Free $0／Hobbyist $16〜・Creator $24〜・Business $50〜（1人あたり月額・年払い時）／未確認</td></tr></table>\n<h2>用途別の選び方</h2><ul><li><b>SNSのショート動画を手早く編集・字幕入れ</b>：CapCut</li><li><b>顔出しせずに解説・研修動画を作る</b>：HeyGen</li><li><b>イメージ映像・短いカットを生成</b>：Runway（まず無料の125クレジットで試す）、Luma</li><li><b>話した内容を文字で編集したい（ポッドキャスト・トーク動画）</b>：<a href=\"../descript-muryou-dokomade/\">Descript</a></li></ul>\n<h2>使い方のコツ</h2><ol><li>生成系（Runway・Luma）は、1回で長い動画を作るより、数秒のカットを作ってつなぐほうがクレジットを無駄にしにくいです。</li><li>指示文には「被写体・動き・カメラ（寄り／引き）・雰囲気」を入れます。</li><li>仕上げの字幕・BGM・つなぎは編集系（CapCut・Descript）で行うと手早く整います。</li></ol>\n<h2>注意点</h2><ul><li>無料枠は透かし（ウォーターマーク）や商用利用の制限がつく場合があります。各社の規約を確認してください。</li><li>Runwayの無料125クレジットは1回限りで、毎月は戻りません（公式料金ページの表記）。</li><li>実在の人物の顔や声を本人の許可なく使うことは避けてください。</li><li>ドル表記の料金は為替や税で日本円の支払額が変わります。</li></ul>\n<h2>文章から動画を作るなら：Fliki</h2><p>台本やブログ記事を貼るだけで、AIナレーション・素材・字幕付きの動画にしたい場合は<a href=\"https://fliki.ai/?via=marui\" rel=\"sponsored nofollow noopener\" target=\"_blank\">Fliki</a><span class=\"pr\">PR</span>という選択肢もあります。無料プラン（月3クレジット・720p・透かし入り）で試せ、商用利用権は有料のStandard以上の項目です（公式料金ページの表記）。詳しくは<a href=\"../../tools/fliki/\">Flikiのページ</a>や<a href=\"../fliki-tsukaikata-shouyou/\">Flikiの使い方と商用利用</a>へ。</p><p class=\"muted\">PR：上のFlikiのリンクはアフィリエイトリンク（広告）です。</p>\n<h2>関連</h2><p><a href=\"../../category/%E5%8B%95%E7%94%BB/\">動画のAIツール一覧</a>／<a href=\"../muryou-ai-tool-ichiran/\">無料で使えるAIツール一覧</a>／<a href=\"../mojiokoshi-ai-hikaku/\">文字起こしAIの比較</a></p>\n<h2>テキストから動画を作って編集までするなら：invideo AI</h2><p><a href=\"https://invideo.sjv.io/0G7OgN\" rel=\"sponsored nofollow noopener\" target=\"_blank\">invideo AI</a><span class=\"pr\">PR</span>は、指示文からAIで動画を作り、そのままブラウザのエディターで編集できるツールです。料金はクレジット制で、Starterは月$20（年払いなら月$10相当・月400クレジット）、Plusは月$60（年払いなら月$30相当）、Maxは月$150（年払いなら月$75相当）です（1シートあたり・公式料金ページの表記）。無料枠の内容と日本語対応は未確認です。詳しくは<a href=\"../../tools/invideo/\">invideo AIのページ</a>へ。</p><p class=\"muted\">PR：上のinvideo AIのリンクはアフィリエイトリンク（広告）です。</p>\n<p>撮った長い動画からショート動画を切り出したいときは、<a href=\"../opusclip-tsukaikata-ryoukin/\">OpusClipの使い方と料金</a>も参考にしてください。</p>\n<h2>出典（公式）</h2><ul><li><a href=\"https://runwayml.com\" rel=\"noopener\">https://runwayml.com</a></li><li><a href=\"https://lumalabs.ai/dream-machine\" rel=\"noopener\">https://lumalabs.ai/dream-machine</a></li><li><a href=\"https://www.heygen.com\" rel=\"noopener\">https://www.heygen.com</a></li><li><a href=\"https://www.capcut.com\" rel=\"noopener\">https://www.capcut.com</a></li><li><a href=\"https://www.descript.com\" rel=\"noopener\">https://www.descript.com</a></li><li><a href=\"https://fliki.ai/pricing\" rel=\"noopener\">https://fliki.ai/pricing</a></li><li><a href=\"https://invideo.io/pricing\" rel=\"noopener\">https://invideo.io/pricing</a></li></ul>"
+    "body": "<h1>動画生成AI比較：Runway・Luma・HeyGen・CapCut・Descript</h1><p class=\"muted\">更新日：2026年11月3日。料金・機能は2026年11月3日に各公式料金ページで確認し直した内容です（当サイトの各ツールページの「情報確認日」も参照）。変更されることがあるため、申し込み前に最新の料金は公式ページでご確認ください。</p>\n<p>「動画生成AI」と一口に言っても、<b>文章や画像から映像を作るもの</b>（Runway・Luma）、<b>AIアバターが話す解説動画を作るもの</b>（HeyGen）、<b>撮った動画をAIで編集するもの</b>（CapCut・Descript）に分かれます。まず用途を決めてから選ぶのが近道です。</p>\n<h2>比較表</h2><table><tr><th>ツール</th><td><b>タイプ</b>／<b>無料枠</b>／<b>有料の例</b>／<b>日本語</b></td></tr>\n<tr><th><a href=\"../../tools/runway/\">Runway</a></th><td>映像生成・編集／Free（125クレジット・1回限り）／Standard $12・Pro $28・Max $76（年払い時の月額）／日本語の公式サイト・料金ページあり</td></tr>\n<tr><th><a href=\"../../tools/luma/\">Luma</a></th><td>映像・画像生成／料金ページに無料プランの記載なし／Plus $30・Pro $90・Ultra $300（月額。年払いは$300・$900・$3,000）／日本語対応は公式ページでご確認ください</td></tr>\n<tr><th><a href=\"../../tools/heygen/\">HeyGen</a></th><td>AIアバター動画／Free $0（月3本・透かし入り）／Creator $29・Pro $49・Business $149（月額）／日本語対応は公式ページでご確認ください</td></tr>\n<tr><th><a href=\"../../tools/capcut/\">CapCut</a></th><td>動画編集（自動字幕など）／無料で利用可／有料プランあり（AI動画生成は1秒あたり$0.12〜などの従量表示）／日本語の料金ページあり</td></tr>\n<tr><th><a href=\"../../tools/descript/\">Descript</a></th><td>文字起こしベースの動画・音声編集／Free $0／Hobbyist $16〜・Creator $24〜・Business $50〜（1人あたり月額・年払い時。月払いは$24・$35・$65）／日本語対応は公式ページでご確認ください</td></tr></table>\n<h2>用途別の選び方</h2><ul><li><b>SNSのショート動画を手早く編集・字幕入れ</b>：CapCut</li><li><b>顔出しせずに解説・研修動画を作る</b>：HeyGen</li><li><b>イメージ映像・短いカットを生成</b>：Runway（まず無料の125クレジットで試す）、Luma</li><li><b>話した内容を文字で編集したい（ポッドキャスト・トーク動画）</b>：<a href=\"../descript-muryou-dokomade/\">Descript</a></li></ul>\n<h2>使い方のコツ</h2><ol><li>生成系（Runway・Luma）は、1回で長い動画を作るより、数秒のカットを作ってつなぐほうがクレジットを無駄にしにくいです。</li><li>指示文には「被写体・動き・カメラ（寄り／引き）・雰囲気」を入れます。</li><li>仕上げの字幕・BGM・つなぎは編集系（CapCut・Descript）で行うと手早く整います。</li></ol>\n<h2>注意点</h2><ul><li>無料枠は透かし（ウォーターマーク）や商用利用の制限がつく場合があります。各社の規約を確認してください。</li><li>Runwayの無料125クレジットは1回限りで、毎月は戻りません（公式料金ページの表記）。</li><li>実在の人物の顔や声を本人の許可なく使うことは避けてください。</li><li>ドル表記の料金は為替や税で日本円の支払額が変わります。</li></ul>\n<h2>文章から動画を作るなら：Fliki</h2><p>台本やブログ記事を貼るだけで、AIナレーション・素材・字幕付きの動画にしたい場合は<a href=\"https://fliki.ai/?via=marui\" rel=\"sponsored nofollow noopener\" target=\"_blank\">Fliki</a><span class=\"pr\">PR</span>という選択肢もあります。無料プラン（月3クレジット・720p・透かし入り）で試せ、商用利用権は有料のStandard以上の項目です（公式料金ページの表記）。詳しくは<a href=\"../../tools/fliki/\">Flikiのページ</a>や<a href=\"../fliki-tsukaikata-shouyou/\">Flikiの使い方と商用利用</a>へ。</p><p class=\"muted\">PR：上のFlikiのリンクはアフィリエイトリンク（広告）です。</p>\n<h2>関連</h2><p><a href=\"../../category/%E5%8B%95%E7%94%BB/\">動画のAIツール一覧</a>／<a href=\"../muryou-ai-tool-ichiran/\">無料で使えるAIツール一覧</a>／<a href=\"../mojiokoshi-ai-hikaku/\">文字起こしAIの比較</a></p>\n<h2>テキストから動画を作って編集までするなら：invideo AI</h2><p><a href=\"https://invideo.sjv.io/0G7OgN\" rel=\"sponsored nofollow noopener\" target=\"_blank\">invideo AI</a><span class=\"pr\">PR</span>は、指示文からAIで動画を作り、そのままブラウザのエディターで編集できるツールです。料金はクレジット制で、Starterは月$20（年払いなら月$10相当・月400クレジット）、Plusは月$60（年払いなら月$30相当・月2,000クレジット）、Maxは年払いで月$250（月8,000クレジット）です（1シートあたり・2026年11月3日の公式料金ページの表記）。無料枠の内容と日本語対応は公式ページでご確認ください。詳しくは<a href=\"../../tools/invideo/\">invideo AIのページ</a>へ。</p><p class=\"muted\">PR：上のinvideo AIのリンクはアフィリエイトリンク（広告）です。</p>\n<p>撮った長い動画からショート動画を切り出したいときは、<a href=\"../opusclip-tsukaikata-ryoukin/\">OpusClipの使い方と料金</a>も参考にしてください。</p>\n<h2>出典（公式）</h2><ul><li><a href=\"https://runwayml.com/pricing\" rel=\"noopener\">https://runwayml.com/pricing</a></li><li><a href=\"https://lumalabs.ai/pricing\" rel=\"noopener\">https://lumalabs.ai/pricing</a></li><li><a href=\"https://www.heygen.com/pricing\" rel=\"noopener\">https://www.heygen.com/pricing</a></li><li><a href=\"https://www.capcut.com/ja-jp/pricing\" rel=\"noopener\">https://www.capcut.com/ja-jp/pricing</a></li><li><a href=\"https://www.descript.com/pricing\" rel=\"noopener\">https://www.descript.com/pricing</a></li><li><a href=\"https://fliki.ai/pricing\" rel=\"noopener\">https://fliki.ai/pricing</a></li><li><a href=\"https://invideo.io/pricing\" rel=\"noopener\">https://invideo.io/pricing</a></li></ul>"
   },
   {
     "slug": "chatgpt-igai-ai-hikaku",

diff --git a/data/aio.js b/data/aio.js
@@ -1,4 +1,5 @@
 module.exports = {
+  "claude-chatgpt-muryou-chigai": {"lead":"無料版で回数を気にせず文章のやりとりや画像生成をしたいならChatGPT（GPT-6のテキストチャットが無制限・乱用防止の制限あり）、長い文章や資料を読ませたい・Artifactsを使いたいならClaude（無料版も5時間ごと・毎週の上限あり、コンテキストはモデルにより最大100万トークン）が向いています。Claude Proは月払い$20（年払いなら月$17）です。","recommend":[["Claude","長い文章や資料をまとめて読ませたい人、Artifactsで文書や小さなツールを作りたい人、有料でClaude Codeを使いたい人"],["ChatGPT","無料版で回数を気にせずやりとりしたい人、画像生成や音声での会話も1つのアプリで使いたい人"]],"faq":[["Claudeの無料版は1日何回まで使えますか？","決まったメッセージ数はありません。公式FAQでは、上限は5時間ごとの枠でリセットされ、会話の長さ・モデル・使う機能で使える量が変わると説明されています（2026年11月3日確認）。"],["ChatGPTの無料版は回数無制限ですか？","公式料金ページでは、GPT-6でのテキストチャットは無制限（乱用防止の制限あり）ですが、アップロードを含むメッセージや画像生成、ディープリサーチなどは制限ありと書かれています（2026年11月3日確認）。"],["Claude Proの料金はいくらですか？","公式料金ページでは月払い$20、年払いなら月$17（$200を一括請求）で、税別です（2026年11月3日確認）。"]]},
   "notebooklm-chatgpt-youyaku-hikaku": {"lead":"手元の資料だけをもとに要約・質問したいならNotebookLM（無料でノートブック100件・1件あたりソース50件）、要約のあとに文章作成など幅広い作業もしたいならChatGPTが向いています。ChatGPT無料版はアップロードを含むメッセージ数に上限があります。","recommend":[["NotebookLM","PDFや資料を複数登録して、その中身だけをもとに要約・質問したい人"],["ChatGPT","要約に加えて文章作成・画像・音声など幅広く使いたい人"]],"faq":[["NotebookLMは無料で何件まで資料を入れられますか？","無料のStandardでは1ノートブックあたりソース50件、ノートブックは1ユーザー100件までです（2026年11月3日に公式ヘルプで確認）。"],["ChatGPTの無料版で資料をアップロードできますか？","できますが、公式の料金ページでは無料版はアップロードを含むメッセージ数に上限ありと書かれています。"]]},
   "cursor-muryou-dokomade": {"lead": "Cursorには$0のFreeプランがあり、エージェントとチャットを使えます。ただし回数は「制限あり」とだけ書かれていて数字の記載はなく、FreeとPlusではClaude・GPT・Geminiなどのサードパーティモデルは使えません。有料はPlus $8から（月額・税別）です。", "faq": [["Cursorは無料で使えますか？", "$0のFreeプランがあり、エージェントとチャットを使えます。どちらもリクエスト数に制限があります（2026年10月29日に公式の料金ページで確認）。"], ["無料プランの回数の上限は？", "公式の料金ページには「制限あり」とだけ書かれていて、具体的な回数の記載はありません。"], ["無料でClaudeやGPTは使えますか？", "公式ドキュメントでは、FreeとPlusではサードパーティモデルは使えないとされています。Premium以上で、APIの定価で前払いクレジットから利用できます。"], ["有料プランの料金は？", "Plus $8、Premium $30、Super $100、Ultra $200（月額・税別）です。年払いもあります。最新の料金は公式の料金ページでご確認ください。"], ["解約するときの注意は？", "追加の請求を避けるには、更新の24時間前までに解約するよう料金ページのFAQに書かれています。"]]},
   "muryou-ai-tool-ichiran": {
@@ -705,7 +706,7 @@ module.exports = {
     "faq": [
       [
         "無料で使える動画生成AIはありますか？",
-        "Runway（Free・125クレジット・1回限り）、HeyGen（Free $0）、CapCut（無料で利用可）、Descript（Free $0）があります。Lumaの無料枠は未確認です。"
+        "Runway（Free・125クレジット・1回限り）、HeyGen（Free $0・月3本・透かし入り）、CapCut（無料で利用可）、Descript（Free $0）があります。Lumaは料金ページに無料プランの記載がないため、最新の情報は公式ページでご確認ください（2026年11月3日確認）。"
       ],
       [
         "Runwayの無料クレジットは毎月もらえますか？",
